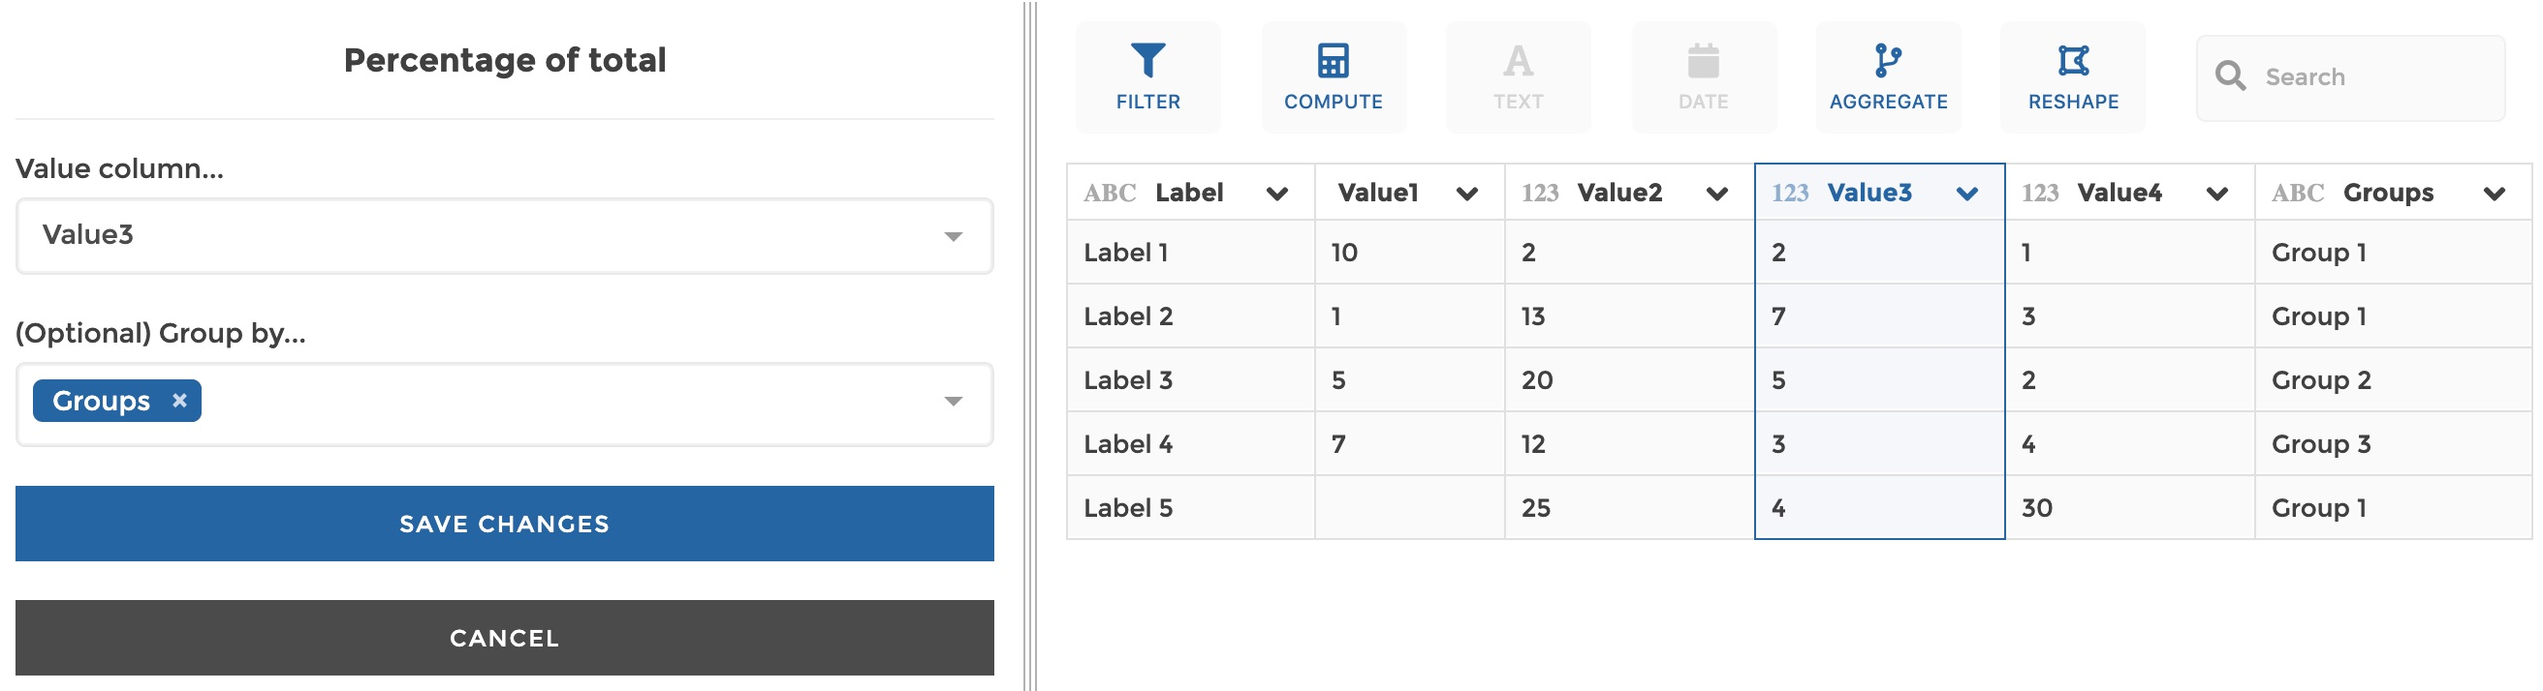
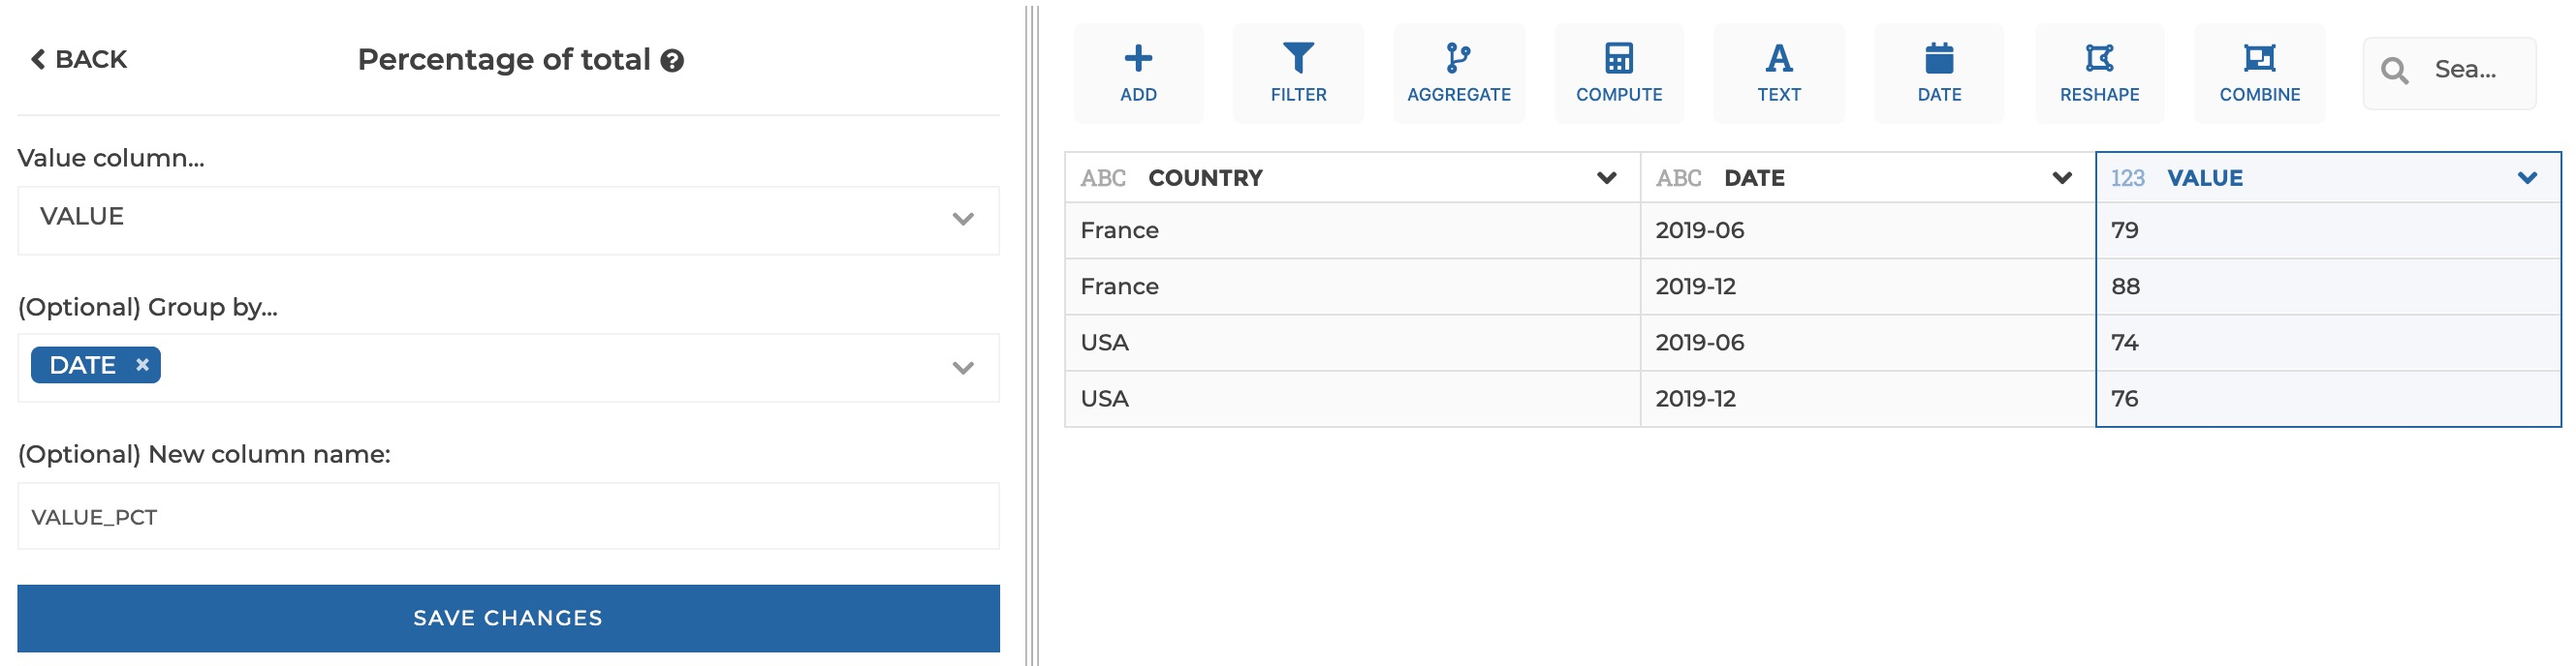
percentage step :: write result in new column

diff --git a/tests/unit/mongo.spec.ts b/tests/unit/mongo.spec.ts
@@ -789,15 +789,14 @@ describe('Pipeline to mongo translator', () => {
       { $unwind: '$_vqbAppArray' },
       {
         $project: {
-          bar: {
-            // we need to explicitely manage the case where '$total_denum' is null otherwise the query may just fail
+          bar_PCT: {
             $cond: [
               { $eq: ['$_vqbTotalDenum', 0] },
               null,
               { $divide: ['$_vqbAppArray.bar', '$_vqbTotalDenum'] },
             ],
           },
-          _vqbAppArray: 1, // we need to keep track of this key for the next operation
+          _vqbAppArray: 1,
         },
       },
       { $replaceRoot: { newRoot: { $mergeObjects: ['$_vqbAppArray', '$$ROOT'] } } },
@@ -805,11 +804,12 @@ describe('Pipeline to mongo translator', () => {
     ]);
   });
 
-  it('can generate a percentage step without groups', () => {
+  it('can generate a percentage step without groups, in a custom new column', () => {
     const pipeline: Pipeline = [
       {
         name: 'percentage',
         column: 'bar',
+        newColumnName: 'newCol',
       },
     ];
     const querySteps = mongo36translator.translate(pipeline);
@@ -824,15 +824,14 @@ describe('Pipeline to mongo translator', () => {
       { $unwind: '$_vqbAppArray' },
       {
         $project: {
-          bar: {
-            // we need to explicitely manage the case where '$total_denum' is null otherwise the query may just fail
+          newCol: {
             $cond: [
               { $eq: ['$_vqbTotalDenum', 0] },
               null,
               { $divide: ['$_vqbAppArray.bar', '$_vqbTotalDenum'] },
             ],
           },
-          _vqbAppArray: 1, // we need to keep track of this key for the next operation
+          _vqbAppArray: 1,
         },
       },
       { $replaceRoot: { newRoot: { $mergeObjects: ['$_vqbAppArray', '$$ROOT'] } } },

diff --git a/tests/unit/percentage-step-form.spec.ts b/tests/unit/percentage-step-form.spec.ts
@@ -1,7 +1,7 @@
 import PercentageStepForm from '@/components/stepforms/PercentageStepForm.vue';
 import { VQBnamespace } from '@/store';
 
-import { BasicStepFormTestRunner } from './utils';
+import { BasicStepFormTestRunner, setupMockStore } from './utils';
 
 describe('Percentage Step Form', () => {
   const runner = new BasicStepFormTestRunner(PercentageStepForm, 'percentage');
@@ -9,11 +9,23 @@ describe('Percentage Step Form', () => {
   runner.testExpectedComponents({
     'columnpicker-stub': 1,
     'multiselectwidget-stub': 1,
+    'inputtextwidget-stub': 1,
   });
   runner.testValidationErrors([
     {
       testlabel: 'submitted data is not valid',
       errors: [{ keyword: 'minLength', dataPath: '.column' }],
+    },
+    {
+      testlabel: 'existing column name',
+      store: setupMockStore({
+        dataset: {
+          headers: [{ name: 'bar' }],
+          data: [],
+        },
+      }),
+      data: { editedStep: { name: 'percentage', column: 'foo', newColumnName: 'bar' } },
+      errors: [{ keyword: 'columnNameAlreadyUsed', dataPath: '.newColumnName' }],
     },
   ]);
 

diff --git a/src/components/stepforms/PercentageStepForm.vue b/src/components/stepforms/PercentageStepForm.vue
@@ -18,6 +18,14 @@
       data-path=".group"
       :errors="errors"
     />
+    <InputTextWidget
+      id="newColumnNameInput"
+      v-model="editedStep.newColumnName"
+      name="(Optional) New column name:"
+      :placeholder="`${editedStep.column}_PCT`"
+      data-path=".newColumnName"
+      :errors="errors"
+    />
     <StepFormButtonbar />
   </div>
 </template>
@@ -30,6 +38,7 @@ import ColumnPicker from '@/components/stepforms/ColumnPicker.vue';
 import { PercentageStep } from '@/lib/steps';
 
 import BaseStepForm from './StepForm.vue';
+import InputTextWidget from './widgets/InputText.vue';
 import MultiselectWidget from './widgets/Multiselect.vue';
 
 @StepFormComponent({
@@ -37,6 +46,7 @@ import MultiselectWidget from './widgets/Multiselect.vue';
   name: 'percentage-step-form',
   components: {
     ColumnPicker,
+    InputTextWidget,
     MultiselectWidget,
   },
 })

diff --git a/src/components/stepforms/schemas/percentage.ts b/src/components/stepforms/schemas/percentage.ts
@@ -1,4 +1,6 @@
-export default {
+import { addNotInColumnNamesConstraint, StepFormType } from './utils';
+
+const schema = {
   $schema: 'http://json-schema.org/draft-07/schema#',
   title: 'Percentage step',
   type: 'object',
@@ -29,7 +31,17 @@ export default {
         placeholder: 'Add columns',
       },
     },
+    newColumnName: {
+      type: 'string',
+      minLength: 1,
+      title: 'New column name',
+      description: 'The new column name to be created for the computation result',
+    },
   },
-  required: ['column'],
+  required: ['name', 'column'],
   additionalProperties: false,
 };
+
+export default function buildSchema(form: StepFormType) {
+  return addNotInColumnNamesConstraint(schema, 'newColumnName', form.columnNames);
+}

diff --git a/src/lib/translators/mongo.ts b/src/lib/translators/mongo.ts
@@ -192,7 +192,7 @@ function transformPercentage(step: Readonly<S.PercentageStep>): MongoStep[] {
     { $unwind: '$_vqbAppArray' },
     {
       $project: {
-        [step.column]: {
+        [step.newColumnName ?? `${step.column}_PCT`]: {
           $cond: [
             { $eq: ['$_vqbTotalDenum', 0] },
             null,

diff --git a/src/lib/steps.ts b/src/lib/steps.ts
@@ -161,6 +161,7 @@ export type PercentageStep = {
   name: 'percentage';
   column: string;
   group?: string[];
+  newColumnName?: string;
 };
 
 export type PivotStep = {

diff --git a/docs/_docs/tech/steps.md b/docs/_docs/tech/steps.md
@@ -967,13 +967,14 @@ Converts a string `column` to lowercase.
 
 Compute the percentage of total, i.e. for every row the value in `column` divided
 by the total as the sum of every values in `column`. The computation can be performed
-by `group` if specified. The result is written inplace.
+by `group` if specified. The result is written in a new column.
 
 ```javascript
 {
   name: 'percentage',
   column: 'bar',
   group: ['foo'] // optional
+  newColumName: 'myNewColumn' // optional, <originalColumname>_PCT by default
 }
 ```
 
@@ -1003,19 +1004,20 @@ by `group` if specified. The result is written inplace.
   new_column: 'Percentage_of_total',
   column: 'Value',
   group: ['Group']
+  newColumn: 'Percentage'
 }
 ```
 
 **Output dataset:**
 
-| Label   | Group   | Value |
-| ------- | ------- | ----- |
-| Label 1 | Group 1 | 0.167 |
-| Label 2 | Group 1 | 0.333 |
-| Label 3 | Group 1 | 0.5   |
-| Label 4 | Group 2 | 0.143 |
-| Label 5 | Group 2 | 0.5   |
-| Label 6 | Group 2 | 0.357 |
+| Label   | Group   | Value | Percentage |
+| ------- | ------- | ----- | ---------- |
+| Label 1 | Group 1 | 5     | 0.167      |
+| Label 2 | Group 1 | 10    | 0.333      |
+| Label 3 | Group 1 | 15    | 0.5        |
+| Label 4 | Group 2 | 2     | 0.143      |
+| Label 5 | Group 2 | 7     | 0.5        |
+| Label 6 | Group 2 | 5     | 0.357      |
 
 ### `pivot` step
 

diff --git a/docs/_docs/user-interface/percentage.md b/docs/_docs/user-interface/percentage.md
@@ -32,6 +32,10 @@ total of its group).
   `GROUP BY` clause in SQL or in the `_id` field of a `$group` in Mongo
   aggregation pipeline)
 
+- `New colum name:` (optional): if you want to give a custom name to the column
+  of results to be created. By default, it will be your original column name
+  suffixed by '\_PCT'.
+
 #### Example
 
 <img src="../../img/docs/user-interface/percentage_example_conf.jpg" width="750" />

diff --git a/CHANGELOG.md b/CHANGELOG.md
@@ -1,5 +1,11 @@
 # Changelog
 
+## UNRELEASED -
+
+### Changed
+
+- Write percentage step result in a new column
+
 ## [0.12.0] - 2020-02-26
 
 ### Added
